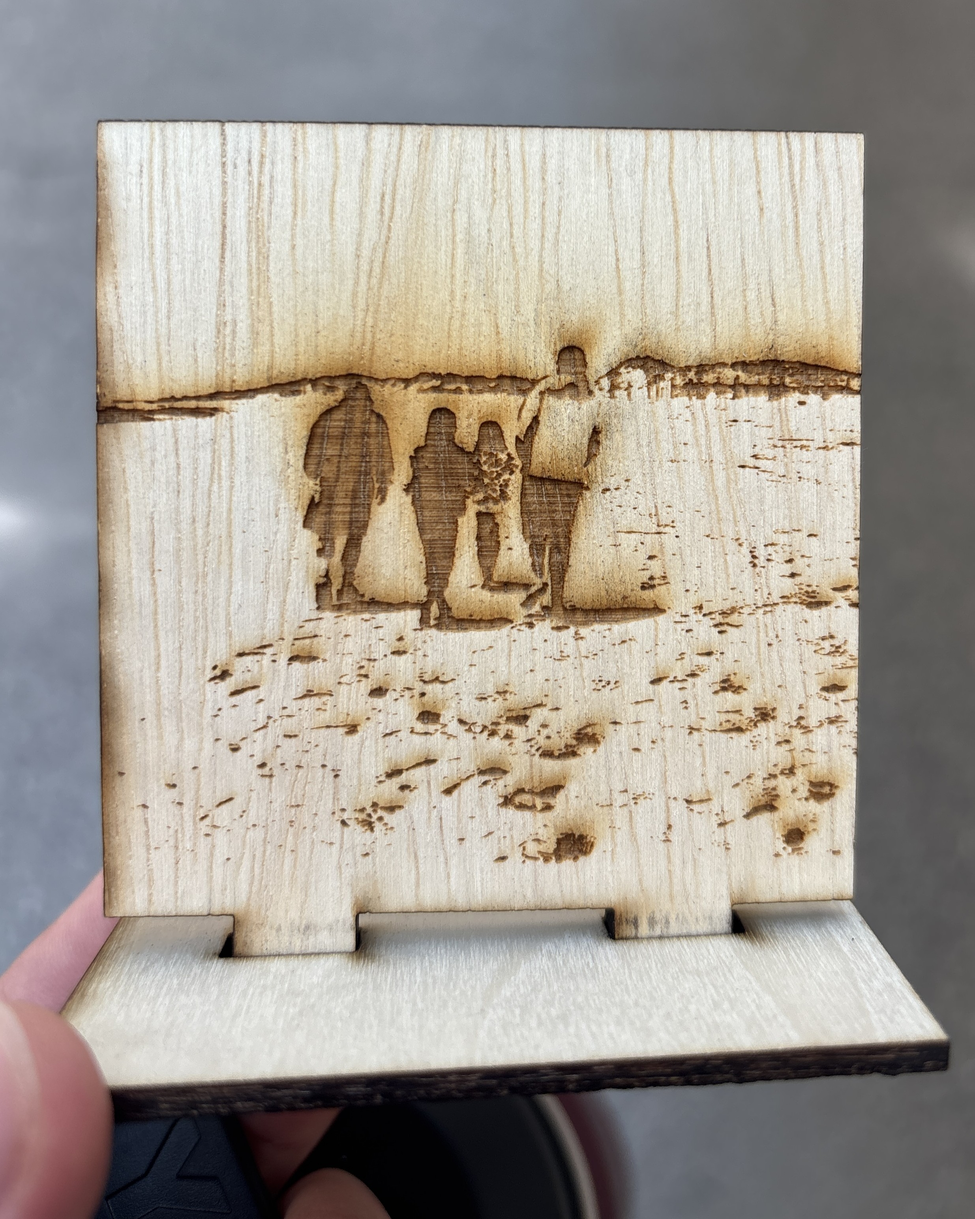
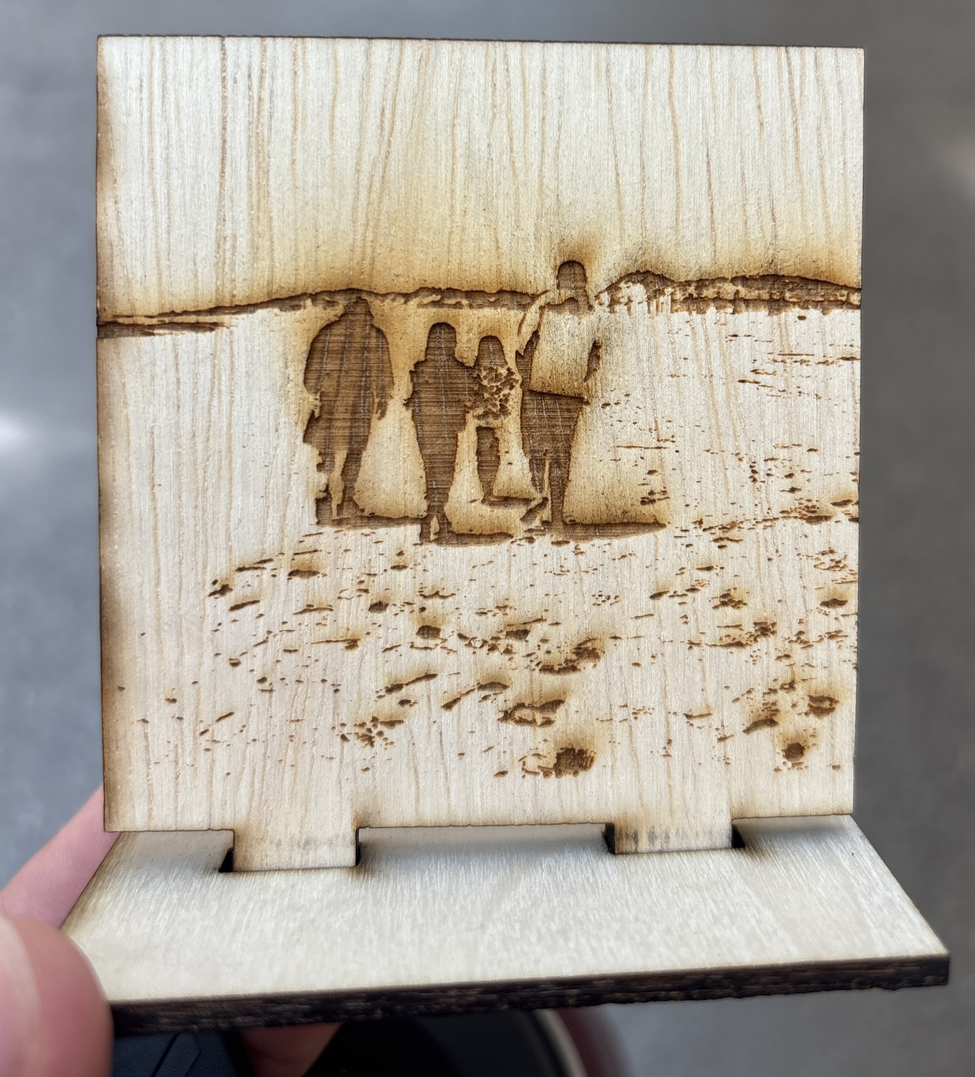
Added photos

diff --git a/src/content/myprojects/ukelele.md b/src/content/myprojects/ukelele.md
@@ -8,7 +8,7 @@ description: "Constructed and painted a ukelele."
 excerpt: "Constructed and painted a ukelele."
 categories: ["Fabrication"]
 tags: ["Crafts"]
-thumbnail: '/images/ukelele.png'
+thumbnail: '/images/ukelele-painted.jpg'
 ---
 ## Spongebob-Themed Ukelele
 I created and learned how to play ukelele using the one that I made!
@@ -18,7 +18,7 @@ I created and learned how to play ukelele using the one that I made!
     <figcaption>In progress</figcaption>
   </figure>
   <figure>
-    <img src="/images/ukelele.png" alt="Ukelele minus strings">
+    <img src="/images/ukelele-painted.jpg" alt="Ukelele minus strings">
     <figcaption>Finished product minus strings</figcaption>
   </figure>
 </div>

diff --git a/src/content/myprojects/jamming-wrist-brace.md b/src/content/myprojects/jamming-wrist-brace.md
@@ -7,7 +7,7 @@ project_num: 3
 type: "engineering"
 description: "A wrist cast utilizing granular jamming properties."
 excerpt: "Wrist brace that integrates granular jamming to achieve a custom fit in its soft state while providing stabilizing in its rigid state."
-categories: ["Design", "Soft Robotics", "Prototyping"]
+categories: ["Product Design", "Soft Robotics", "Prototyping"]
 tags: ["Soft Robotics", "Granular Jamming", "Product Design", "Fabrication"]
 thumbnail: '/images/Granular Jamming Wrist Brace.jpg'
 ---

diff --git a/src/content/myprojects/beachpic-bitmap.md b/src/content/myprojects/beachpic-bitmap.md
@@ -8,7 +8,7 @@ description: "Portable, handheld device that allows surgeons to measure bone den
 excerpt: "Turned a childhood photo into an engineered Father's Day gift."
 categories: ["Laser Engraving", "Inkscape"]
 tags: ["Inkscape"]
-thumbnail: '/images/Beach Engraved/bitmap_IMG_3254.jpeg'
+thumbnail: '/images/Beach Engraved/final-engraving-thumbnail.jpg'
 ---
 ## Inkscape
 Turning the original photo into a bitmap for engraving using Inkscape.

diff --git a/src/content/myprojects/trajectory-visualizer.md b/src/content/myprojects/trajectory-visualizer.md
@@ -5,7 +5,7 @@ project_num: 4
 type: "engineering"
 description: "Mapping 2D trajectory grids and cost maps in C++."
 excerpt: "C++ visualizer for robot movements in 2D grid worlds to visualize simple trajectories and their cost map."
-categories: ["C++", "Design", "UI/UX"]
+categories: ["C++", "Data Visualization", "UI/UX"]
 tags: ["C++"]
 thumbnail: '/images/costMapVisualizer.png'
 ---
